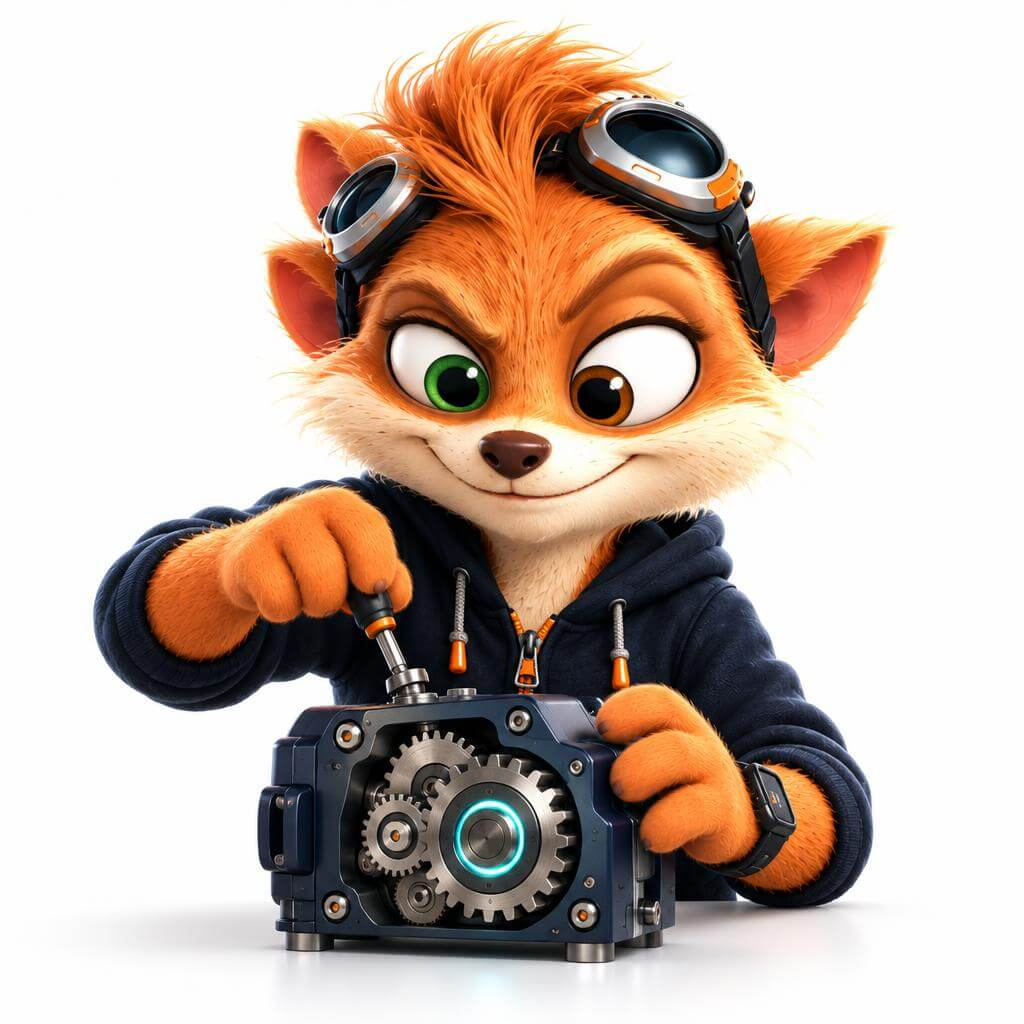
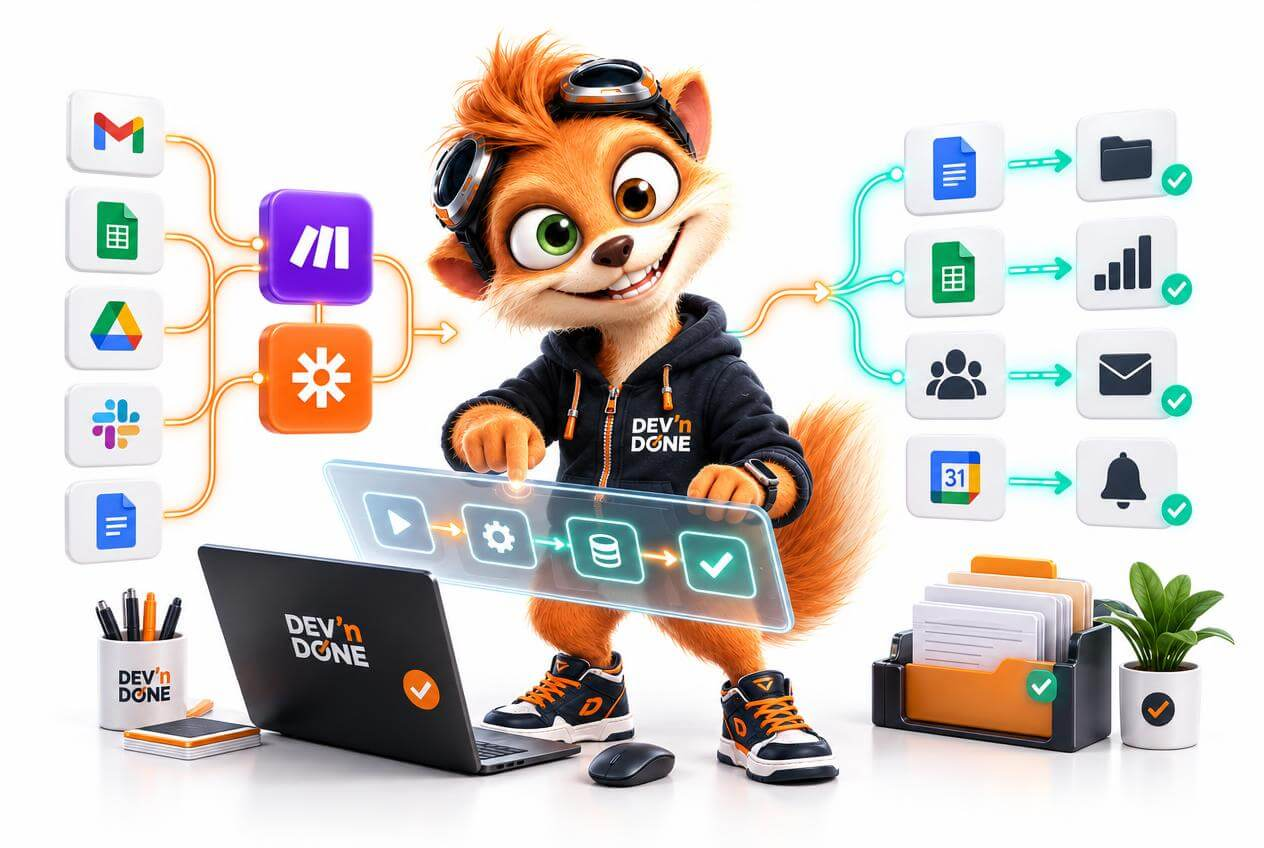
Notre expertise : nouvelles illustrations de la mascotte au format 3:2

diff --git a/src/lib/components/sections/ExpertiseCards.svelte b/src/lib/components/sections/ExpertiseCards.svelte
@@ -2,7 +2,7 @@
 	Les quatre expertises (maquette du 19/10/2026) : cartes blanches homogènes, mascotte de
 	l'expertise, numéro orange, titre, description, flèche. Chaque carte mène à la page du service
 	(toute la carte est le lien). 4 colonnes en grand écran, 2 en tablette, 1 sur petit mobile.
-	Données : content/services.ts. Mascottes : $lib/assets/mascotte/expertise-*.jpg (fond blanc,
+	Données : content/services.ts. Mascottes : $lib/assets/mascotte/expertise-*.jpg (illustrations 3:2, fond blanc,
 	posé sur la carte blanche).
 -->
 <script lang="ts">
@@ -16,15 +16,21 @@
 	let { headingLevel = 3 }: { headingLevel?: 2 | 3 | 4 } = $props();
 
 	const mascots: Record<string, { src: typeof web; alt: string }> = {
-		web: { src: web, alt: 'Dev, la mascotte, pouce levé devant son ordinateur portable' },
-		design: { src: design, alt: 'Dev, la mascotte, pensif, dessinant sur un carnet' },
+		web: {
+			src: web,
+			alt: 'Dev, la mascotte, à son bureau, montre un site en cours de création sur grand écran'
+		},
+		design: {
+			src: design,
+			alt: "Dev, la mascotte, dessine sur une tablette graphique entouré de planches d'identité visuelle"
+		},
 		automatisation: {
 			src: automatisation,
-			alt: 'Dev, la mascotte, réglant une machine à engrenages'
+			alt: 'Dev, la mascotte, relie des applications entre elles dans un flux automatisé'
 		},
 		'full-stack': {
 			src: fullStack,
-			alt: "Dev, la mascotte, au bureau devant un écran, entouré de schémas d'application"
+			alt: 'Dev, la mascotte, code sur son portable entre interface, API et base de données'
 		}
 	};
 
@@ -40,7 +46,7 @@
 						<enhanced:img
 							src={mascots[u.id].src}
 							alt={mascots[u.id].alt}
-							sizes="(min-width: 1100px) 220px, 200px"
+							sizes="(min-width: 1100px) 300px, (min-width: 640px) 45vw, 90vw"
 							loading="lazy"
 						/>
 					</span>
@@ -103,9 +109,11 @@
 		outline-offset: var(--focus-offset);
 	}
 	/* Fond blanc de l'image fondu dans la carte (multiply : le blanc disparaît) */
+	/* Illustrations au format 3:2, sur toute la largeur de la carte */
 	.expertise__mascot {
-		justify-self: center;
-		width: min(100%, 200px);
+		display: block;
+		width: 100%;
+		aspect-ratio: 3 / 2;
 		margin-bottom: var(--space-2);
 		/* Le zoom reste dans le cadre de l'image */
 		overflow: hidden;
@@ -113,7 +121,8 @@
 	.expertise__mascot :global(img) {
 		display: block;
 		width: 100%;
-		height: auto;
+		height: 100%;
+		object-fit: contain;
 		mix-blend-mode: multiply;
 		transition: transform var(--duration-reveal) var(--ease-out);
 	}
